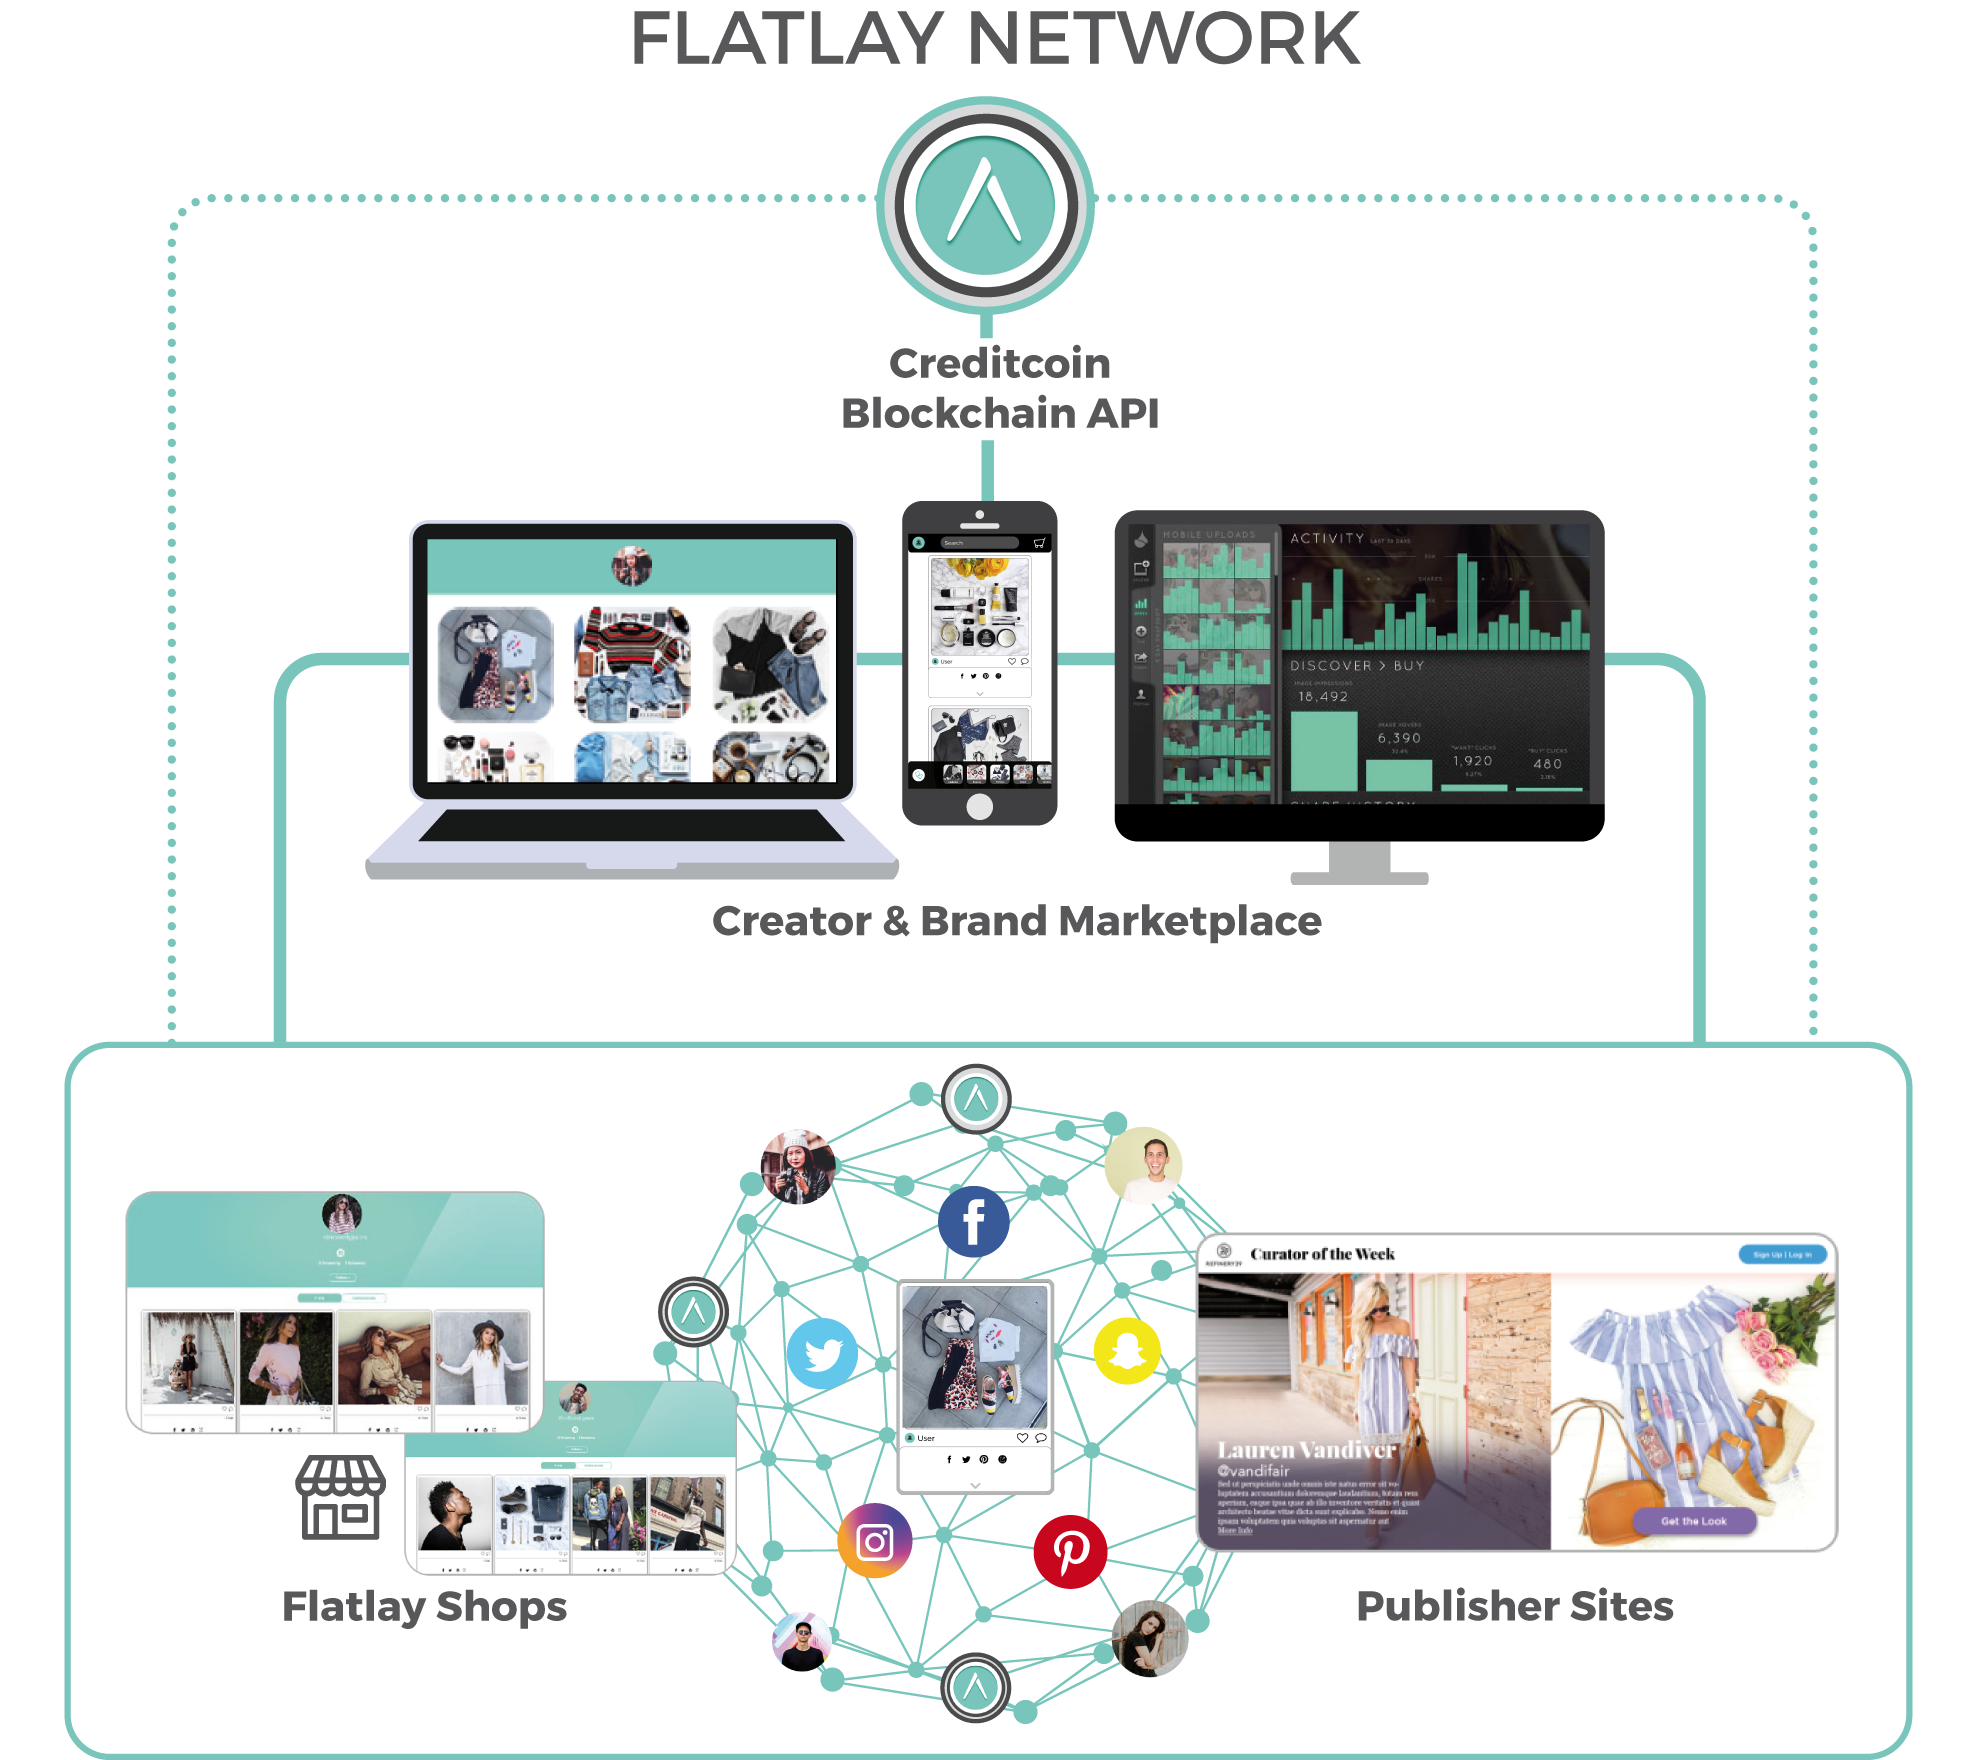
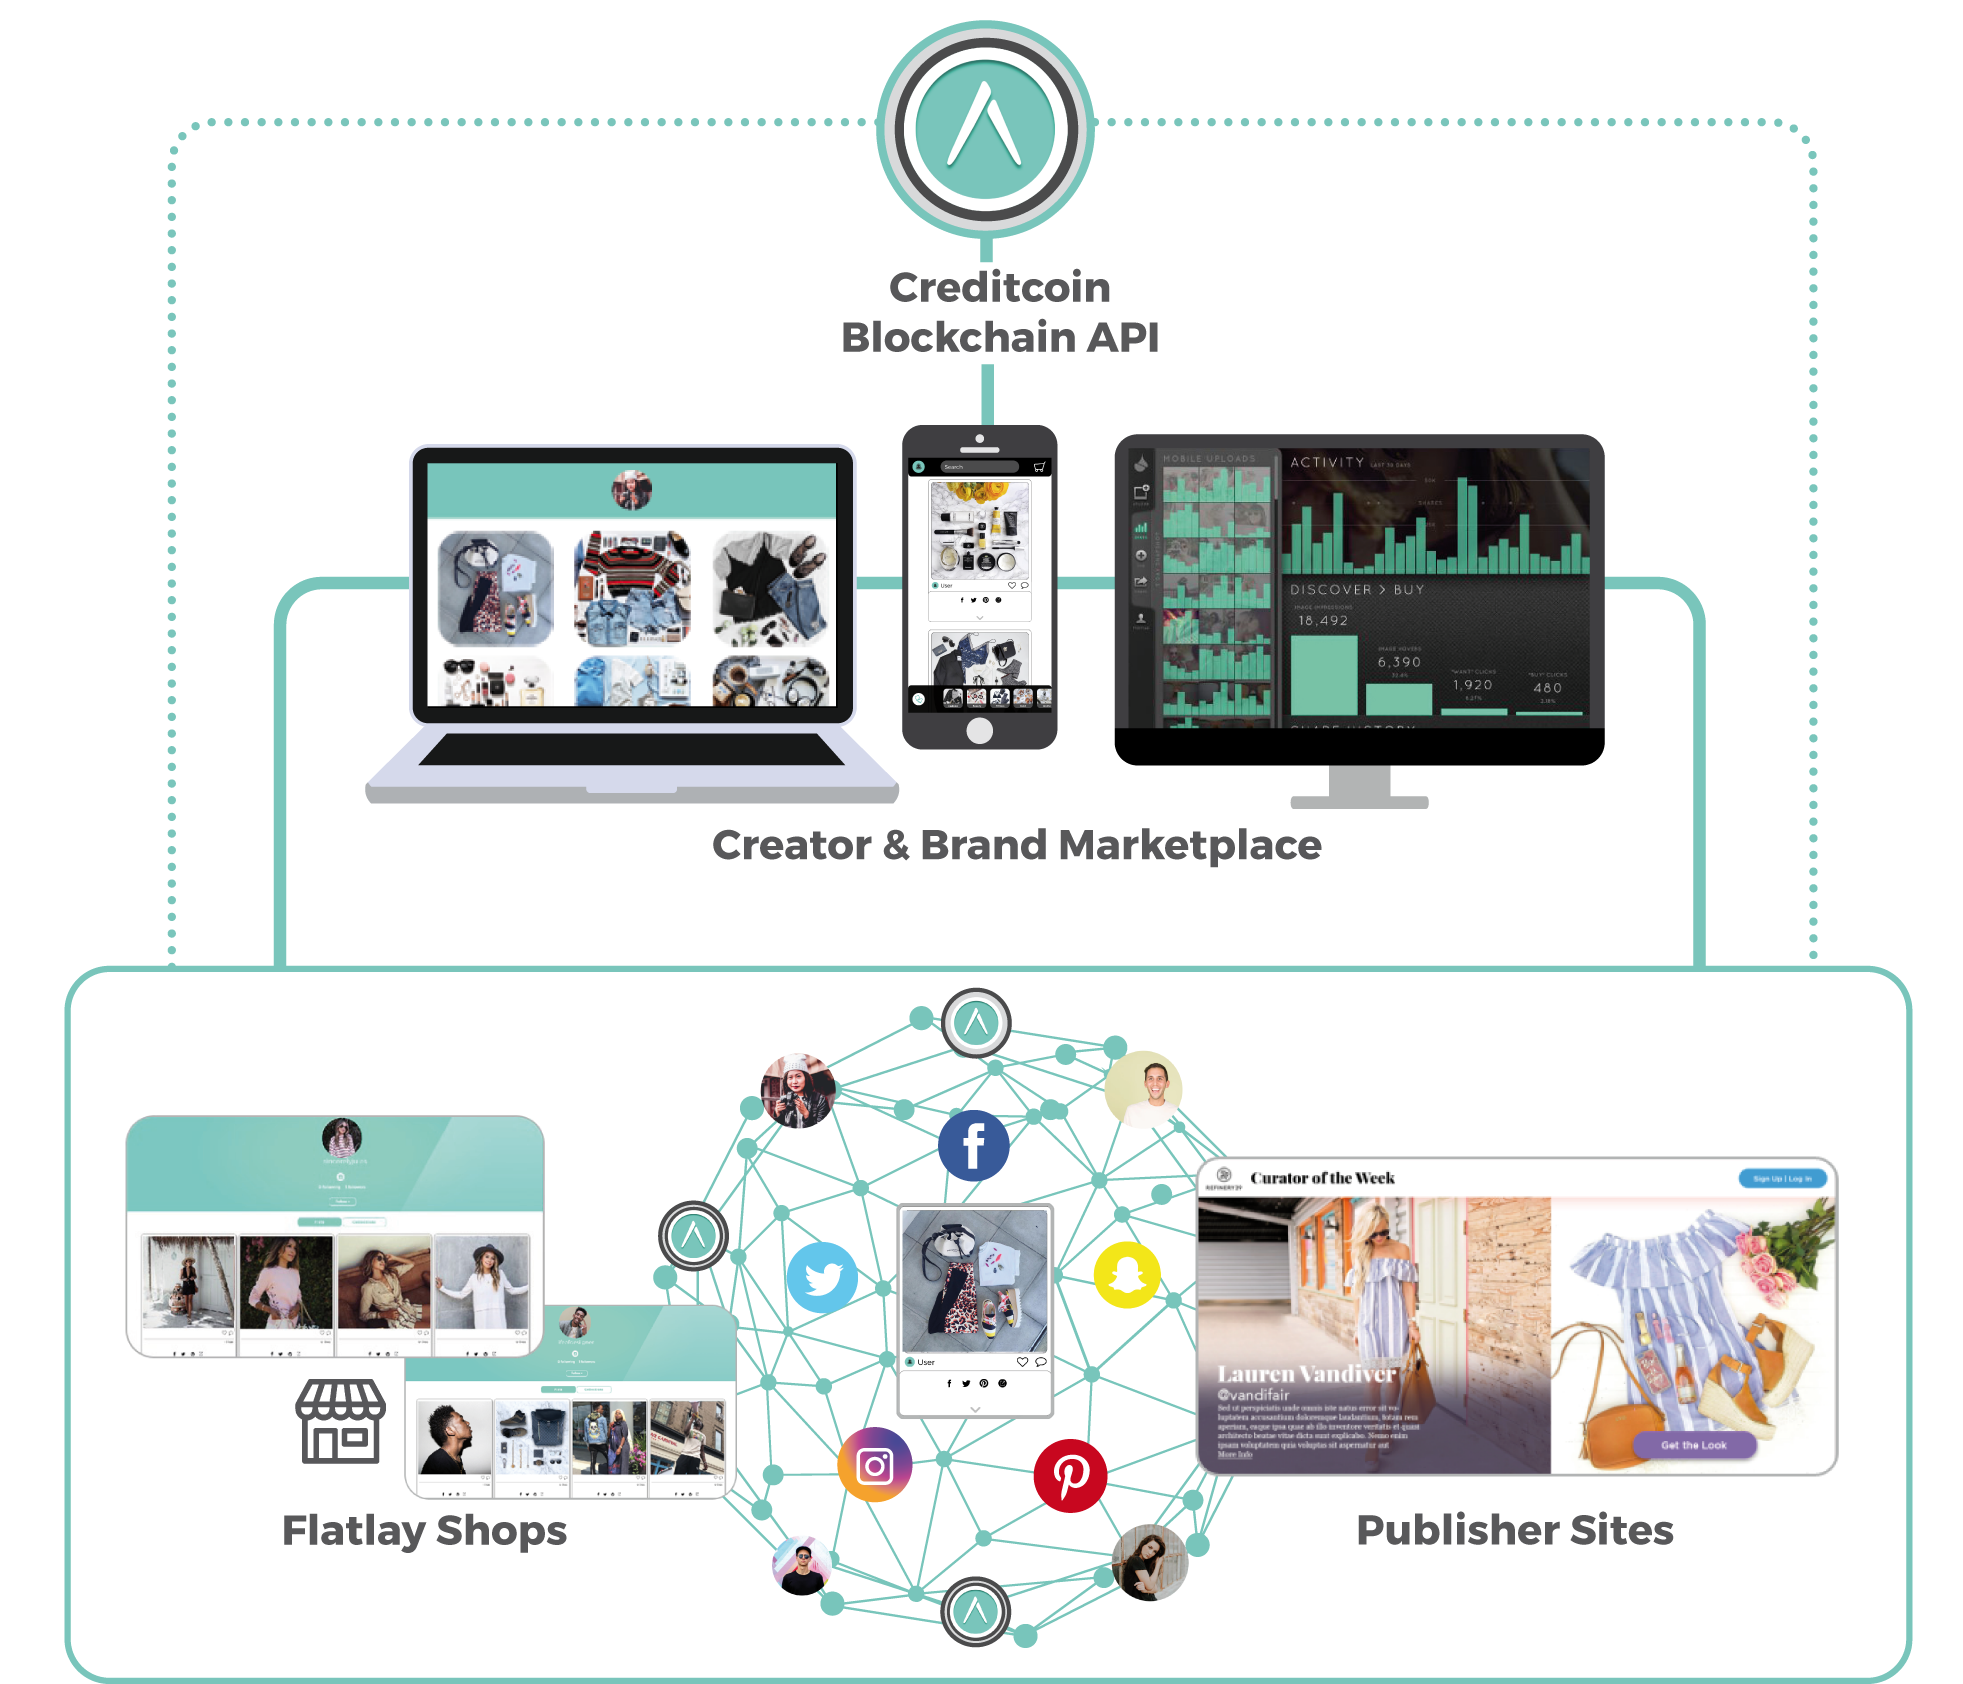
edit rus/whatisflatlay image

diff --git a/index.html b/index.html
@@ -1403,7 +1403,7 @@ In your html page, add the snippet and call gtag_report_conversion when someone 
 		</section>
 		<section class="home-what-is-soma-section grey-bg">
 			<div class="container">
-				<div class="row home-what-is-soma-bg" style="background: url(./COINTOKEN-HOME_files/whatisflatlay2.png) no-repeat right 0px; background-size: 500px auto;">
+				<div class="row home-what-is-soma-bg" style="background: url(./COINTOKEN-HOME_files/whatisflatlay2.png) no-repeat right 0px; background-size: 500px auto; margin-top: 25px;">
 					<div class="col-sm-7">
 						<p>The Creditcoin protocol supports the global democratization of commerce with technology. The team's focus is on making e-commerce monetization accessible to anyone by removing the borders & restrictions for global participation using the Creditcoin token. The blockchain-based network enables content creators, brands & publishers to interact securely without restriction versus the legacy marketplace infrastructures & regulations of today.<br><br>
 						<strong>Join us as we inspire this evolution into a new era of user generated commerce.</strong></p><br>
@@ -1488,7 +1488,7 @@ In your html page, add the snippet and call gtag_report_conversion when someone 
 						<!-- <hr> -->
 						<div class="row">
 							<div class="col-sm-7 ico-description" style="float: none; margin-left: auto; margin-right: auto;">
-								<p>Последние 30 000 000 токенов CCOIN будут использоваться для роста, такого как маркетинг и поощрение активных членов сообщества. Обратите внимание, что бонусы выплачиваются из этого фонда (30 000 000 CCOIN).</p>
+								<p>The last 30,000,000 CCOIN tokens will be used for growth, such as marketing and rewarding active community members. Note that the bonuses are paid out of this (30,000,000 CCOIN) fund.</p>
 							</div>
 						<div class="row">
 							<div class="col-sm-9" style="float: none; margin-left: auto; margin-right: auto; margin-bottom: 25px;"><img class="img-responsive" src="./COINTOKEN-HOME_files/ICOGraph.png"></div>
@@ -1844,7 +1844,7 @@ In your html page, add the snippet and call gtag_report_conversion when someone 
 														<button class="close" data-dismiss="modal" type="button"></button>
 														<div class="name">
 															Tony Chaw
-														</div>
+										 				</div>
 														<div class="position">
 															Engineer
 														</div>

diff --git a/pt/index.html b/pt/index.html
@@ -1383,7 +1383,7 @@ In your html page, add the snippet and call gtag_report_conversion when someone 
 		</section>
 		<section class="home-what-is-soma-section grey-bg">
 			<div class="container">
-				<div class="row home-what-is-soma-bg" style="background: url(./COINTOKEN-HOME_files/whatisflatlay2.png) no-repeat right 0px; background-size: 500px auto;">
+				<div class="row home-what-is-soma-bg" style="background: url(./COINTOKEN-HOME_files/whatisflatlay2.png) no-repeat right 0px; background-size: 500px auto; margin-top: 25px;">
 					<div class="col-sm-7">
 						<p>O protocolo Creditcoin suporta a democratização global do comércio com tecnologia. O foco da equipe é tornar a monetização de comércio eletrônico acessível a qualquer pessoa, removendo as fronteiras e restrições para participação global usando o token Creditcoin. A rede baseada em blockchain permite que criadores de conteúdo, marcas e editores de conteúdo interajam de forma segura, sem restrições, em comparação com as infraestruturas e regulamentos legados do mercado de hoje.<br><br>
 						<strong>Junte-se a nós enquanto inspiramos essa evolução em uma nova era de comércio gerado por usuários.</strong></p><br>

diff --git a/de/index.html b/de/index.html
@@ -1378,7 +1378,7 @@ In your html page, add the snippet and call gtag_report_conversion when someone 
 		</section>
 		<section class="home-what-is-soma-section grey-bg">
 			<div class="container">
-				<div class="row home-what-is-soma-bg" style="background: url(./COINTOKEN-HOME_files/whatisflatlay2.png) no-repeat right 0px; background-size: 500px auto;">
+				<div class="row home-what-is-soma-bg" style="background: url(./COINTOKEN-HOME_files/whatisflatlay2.png) no-repeat right 0px; background-size: 500px auto; margin-top: 25px;">
 					<div class="col-sm-7">
 						<p>Der Creditcoin protocol unterstützt die globale Demokratisierung des Handels mit Hilfe von Technologie. Der Fokus des Teams liegt darauf, die Monetarisierung des Online-Handels durch den Creditcoin Token für jedermann zugänglich zu machen. Das Blockchain-basierte Netzwerk ermöglicht Content-Creators, Marken und Verlägen, im Vergleich zu den herkömmlichen Marketplace-Infrastrukturen und –Regulierungen , sicher und ohne Beschränkungen  miteinander zu interagieren.<br><br>
 						<strong>Seine Sie Teil der Entwicklung in eine neue Ära des nutzergenerierten Handels.</strong></p><br>

diff --git a/ch/index.html b/ch/index.html
@@ -1379,7 +1379,7 @@ In your html page, add the snippet and call gtag_report_conversion when someone 
 		</section>
 		<section class="home-what-is-soma-section grey-bg">
 			<div class="container">
-				<div class="row home-what-is-soma-bg" style="background: url(./COINTOKEN-HOME_files/whatisflatlay2.png) no-repeat right 0px; background-size: 500px auto;">
+				<div class="row home-what-is-soma-bg" style="background: url(./COINTOKEN-HOME_files/whatisflatlay2.png) no-repeat right 0px; background-size: 500px auto; margin-top: 25px;">
 					<div class="col-sm-7">
 						<p>Creditcoin的目标是通过革新技术实现电商行业的去中心化。我们专心去掉防止国际合作的国境和限制，并实现大家能赚钱的电商世界。区块链能让内容创建者，品牌商，发布者回避典型落后电商系统和限制 实现安全实现互动。<br><br>
 						<strong>一起参加用户主题生意的新时代的革命！</strong></p><br>

diff --git a/ko/index.html b/ko/index.html
@@ -1385,7 +1385,7 @@ In your html page, add the snippet and call gtag_report_conversion when someone 
 		</section>
 		<section class="home-what-is-soma-section grey-bg">
 			<div class="container">
-				<div class="row home-what-is-soma-bg" style="background: url(./COINTOKEN-HOME_files/whatisflatlay2.png) no-repeat right 0px; background-size: 500px auto;">
+				<div class="row home-what-is-soma-bg" style="background: url(./COINTOKEN-HOME_files/whatisflatlay2.png) no-repeat right 0px; background-size: 500px auto; margin-top: 25px;">
 					<div class="col-sm-7">
 						<p>Creditcoin의 임무는 전자 상거래의 글로벌 민주화를 지원하는 것입니다. 기술의 혁신적인 사용을 통해 수익 창출은 모든 국경을 제거하여 모든 사람에게 접근성을 제공하고 현재 글로벌 참여를 만드는 모든 것을<br><br>
 						<strong>억제한다. 함께 가즈아.</strong></p><br>

diff --git a/ru/index.html b/ru/index.html
@@ -1371,7 +1371,7 @@ In your html page, add the snippet and call gtag_report_conversion when someone 
 		</section>
 		<section class="home-what-is-soma-section grey-bg">
 			<div class="container">
-				<div class="row home-what-is-soma-bg" style="background: url(./COINTOKEN-HOME_files/whatisflatlay2.png) no-repeat right 0px; background-size: 500px auto;">
+				<div class="row home-what-is-soma-bg" style="background: url(./COINTOKEN-HOME_files/whatisflatlay2.png) no-repeat right 0px; background-size: 500px auto; margin-top: 25px;">
 					<div class="col-sm-7">
 						<p>Протокол Creditcoin поддерживает глобальную демократизацию рекламы
 							деятельность с использованием технологий. Команда фокусируется на создании

diff --git a/jp/index.html b/jp/index.html
@@ -1377,7 +1377,7 @@ In your html page, add the snippet and call gtag_report_conversion when someone 
 		</section>
 		<section class="home-what-is-soma-section grey-bg">
 			<div class="container">
-				<div class="row home-what-is-soma-bg" style="background: url(./COINTOKEN-HOME_files/whatisflatlay2.png) no-repeat right 0px; background-size: 500px auto;">
+				<div class="row home-what-is-soma-bg" style="background: url(./COINTOKEN-HOME_files/whatisflatlay2.png) no-repeat right 0px; background-size: 500px auto; margin-top: 25px;">
 					<div class="col-sm-7">
 						<p>Creditcoinのミッションは世界的なEコマースに民主化をもたらすこ
 						とです。革新的なテクノロジーを使用しグローバル化への障壁を取り除
